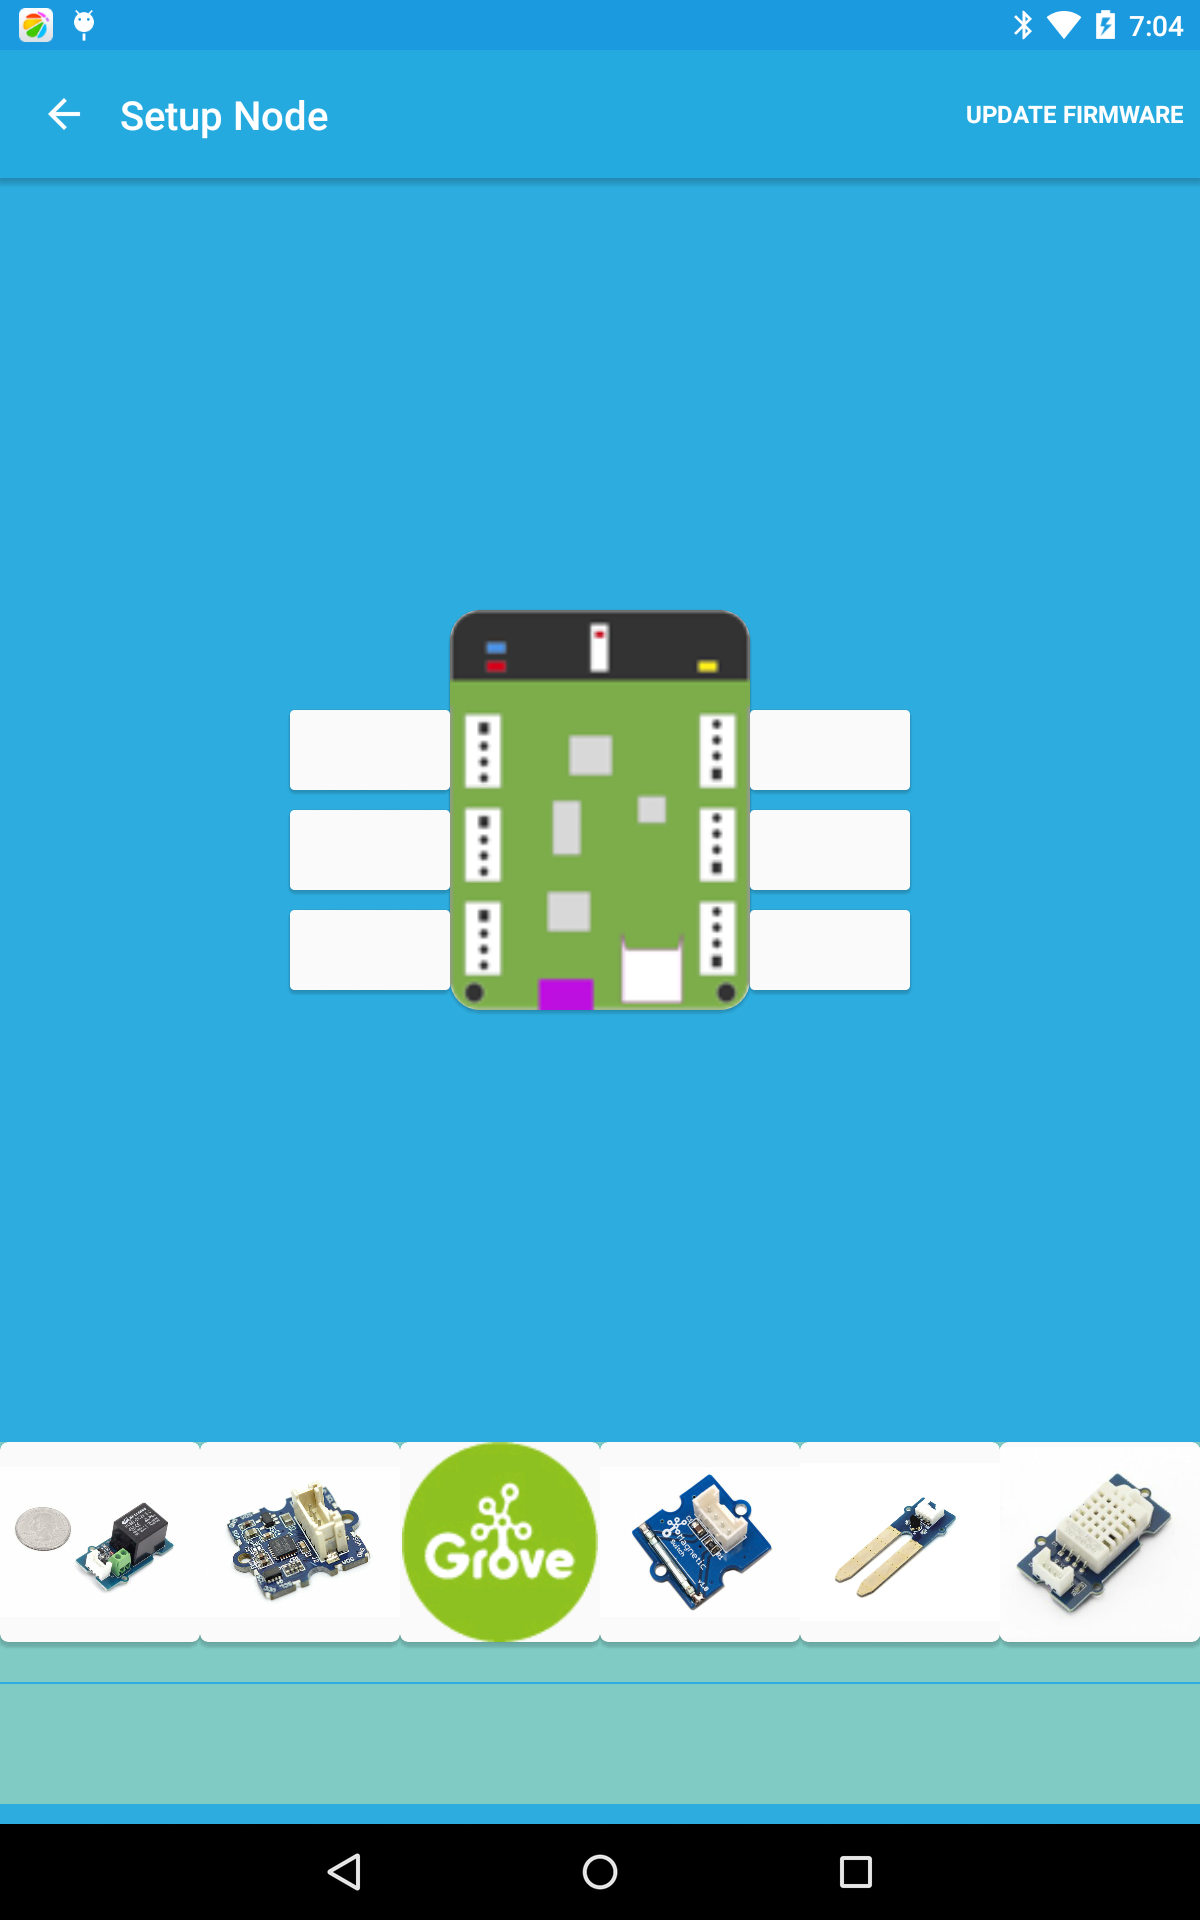
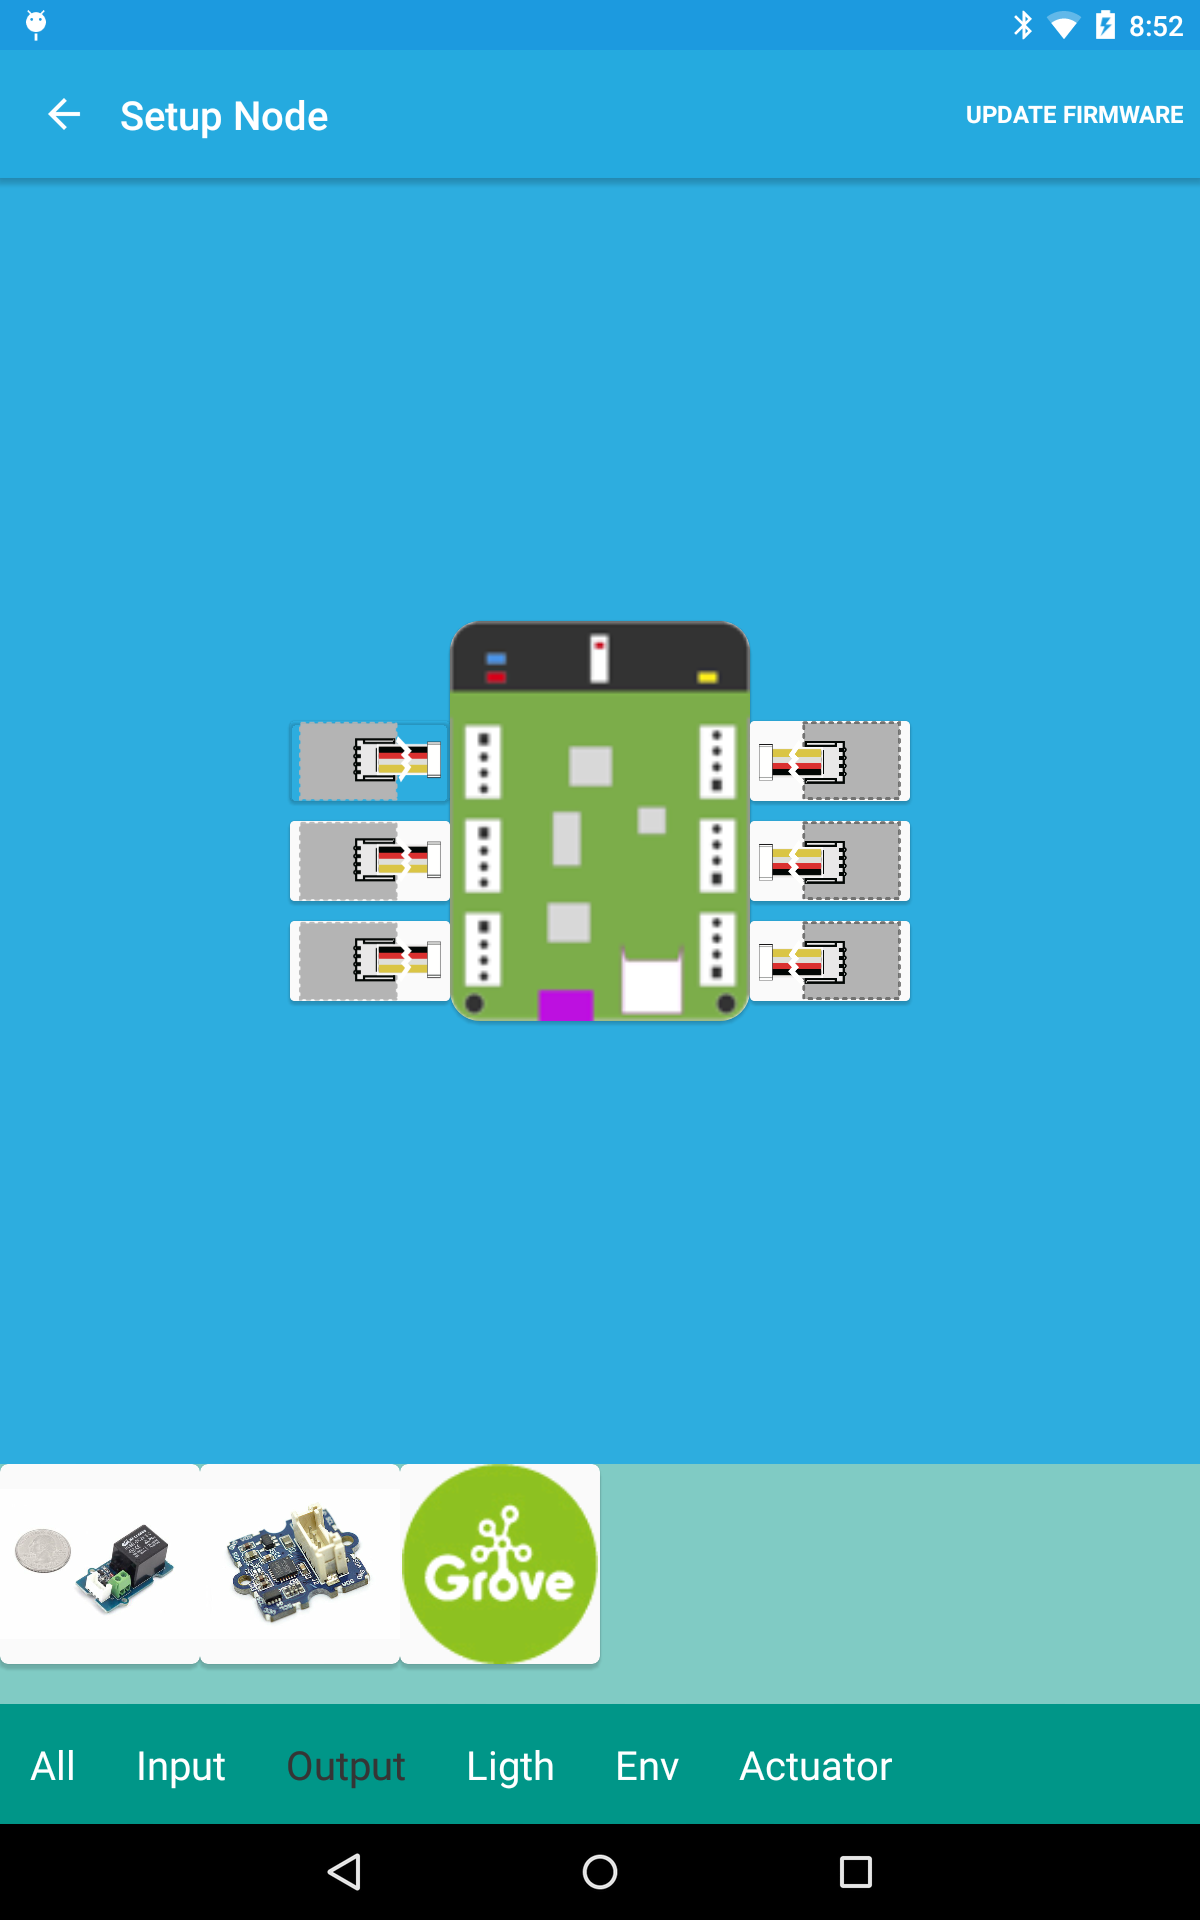
add Grove Filter

diff --git a/android/app/src/main/java/cc/seeed/iot/ui_setnode/SetupIotNodeActivity.java b/android/app/src/main/java/cc/seeed/iot/ui_setnode/SetupIotNodeActivity.java
@@ -9,6 +9,8 @@ import android.support.v7.widget.Toolbar;
 import android.util.Log;
 import android.view.Menu;
 import android.view.MenuItem;
+import android.view.View;
+import android.widget.TextView;
 import android.widget.Toast;
 
 import java.util.ArrayList;
@@ -16,6 +18,7 @@ import java.util.List;
 
 import cc.seeed.iot.MyApplication;
 import cc.seeed.iot.R;
+import cc.seeed.iot.datastruct.Constant;
 import cc.seeed.iot.datastruct.User;
 import cc.seeed.iot.webapi.IotApi;
 import cc.seeed.iot.webapi.IotService;
@@ -25,13 +28,18 @@ import retrofit.Callback;
 import retrofit.RetrofitError;
 import retrofit.client.Response;
 
-public class SetupIotNodeActivity extends AppCompatActivity {
+public class SetupIotNodeActivity extends AppCompatActivity
+        implements GroveFilterRecyclerAdapter.MainViewHolder.MyItemClickListener {
     public Toolbar toolbar;
     ArrayList<Node> nodes;
     Node node;
 
     RecyclerView mGroveListView;
-    RecyclerView.Adapter mAdapter;
+    GroveListRecyclerAdapter mGroveListAdapter;
+
+    RecyclerView mGroveTypeListView;
+    GroveFilterRecyclerAdapter mGroveTypeListAdapter;
+    private ArrayList<GroverDriver> mGroveDrivers;
 
     @Override
     protected void onCreate(Bundle savedInstanceState) {
@@ -58,6 +66,29 @@ public class SetupIotNodeActivity extends AppCompatActivity {
 
             setupAdapter();
         }
+
+
+        mGroveTypeListView = (RecyclerView) findViewById(R.id.grove_selector);
+        if (mGroveTypeListView != null) {
+            mGroveTypeListView.setHasFixedSize(true);
+            LinearLayoutManager layoutManager = new LinearLayoutManager(this);
+            layoutManager.setOrientation(LinearLayoutManager.HORIZONTAL);
+
+            mGroveTypeListView.setLayoutManager(layoutManager);
+
+            setupGroveSetectorAdapter();
+        }
+    }
+
+    private void setupGroveSetectorAdapter() {
+        mGroveTypeListAdapter = new GroveFilterRecyclerAdapter(Constant.groveTypes);
+        mGroveTypeListAdapter.setOnItemClickListener(this);
+        mGroveTypeListView.setAdapter(mGroveTypeListAdapter);
+    }
+
+    private void updateGroveListAdapter(ArrayList<GroverDriver> groverDrivers) {
+        mGroveListAdapter = new GroveListRecyclerAdapter(groverDrivers);
+        mGroveListView.setAdapter(mGroveListAdapter);
     }
 
     private void setupAdapter() {
@@ -71,12 +102,15 @@ public class SetupIotNodeActivity extends AppCompatActivity {
 //                if (groverDriver.status.equals("200")) {
 //                    nodes = (ArrayList) nodeListResponse.nodes;
 //                    ((MyApplication) MainScreenActivity.this.getApplication()).setNodes(nodes);
-//                    mAdapter = new NodeListRecyclerAdapter(nodes);
-                mAdapter = new GroveListRecyclerAdapter((ArrayList) groverDrivers);
-                mGroveListView.setAdapter(mAdapter);
+//                    mGroveListAdapter = new NodeListRecyclerAdapter(nodes);
+
+                mGroveDrivers = (ArrayList) groverDrivers;
+                mGroveListAdapter = new GroveListRecyclerAdapter((ArrayList) groverDrivers);
+                mGroveListView.setAdapter(mGroveListAdapter);
 //                } else {
 //                    Toast.makeText(MainScreenActivity.this, nodeListResponse.msg, Toast.LENGTH_LONG).show();
 //                }
+//                mGroveListAdapter.
             }
 
             @Override
@@ -108,5 +142,45 @@ public class SetupIotNodeActivity extends AppCompatActivity {
         }
 
         return super.onOptionsItemSelected(item);
+    }
+
+
+    @Override
+    public void onItemClick(View view, int postion) {
+        String groveType = Constant.groveTypes[postion];
+
+        ArrayList<GroverDriver> inputGroves = new ArrayList<GroverDriver>();
+        ArrayList<GroverDriver> outputGroves = new ArrayList<GroverDriver>();
+
+        if (mGroveDrivers == null)
+            return;
+
+        for (GroverDriver g : mGroveDrivers) {
+            if (!g.Inputs.isEmpty()) {
+                outputGroves.add(g);
+            }
+            if (!g.Outputs.isEmpty())
+                inputGroves.add(g);
+        }
+
+        if (groveType.equals("All")) {
+            updateGroveListAdapter(mGroveDrivers);
+
+        } else if (groveType.equals("Input")) {
+            updateGroveListAdapter(inputGroves);
+
+        } else if (groveType.equals("Output")) {
+            TextView v = (TextView) view.findViewById(R.id.grove_type);
+            v.setTextColor(view.getResources().getColor(R.color.window_background_dark));
+
+            updateGroveListAdapter(outputGroves);
+
+        } else if (groveType.equals("Light")) {
+
+        } else if (groveType.equals("Env")) {
+
+        } else if (groveType.equals("Actuator")) {
+
+        }
     }
 }

diff --git a/android/app/src/main/java/cc/seeed/iot/ui_setnode/GroveFilterRecyclerAdapter.java b/android/app/src/main/java/cc/seeed/iot/ui_setnode/GroveFilterRecyclerAdapter.java
@@ -1,0 +1,91 @@
+package cc.seeed.iot.ui_setnode;
+
+import android.content.Context;
+import android.support.v7.widget.RecyclerView;
+import android.view.LayoutInflater;
+import android.view.View;
+import android.view.ViewGroup;
+import android.widget.TextView;
+
+import cc.seeed.iot.R;
+
+/**
+ * Created by tenwong on 15/6/25.
+ */
+public class GroveFilterRecyclerAdapter extends RecyclerView.Adapter<GroveFilterRecyclerAdapter.MainViewHolder> {
+    private String[] grovesTypes;
+    private MainViewHolder.MyItemClickListener mItemClickListener;
+
+    private static Context context;
+
+
+    public GroveFilterRecyclerAdapter(String[] grovesTypes) {
+        this.grovesTypes = grovesTypes;
+    }
+
+    @Override
+    public MainViewHolder onCreateViewHolder(ViewGroup parent, int viewType) {
+        this.context = parent.getContext();
+        View v = LayoutInflater.from(parent.getContext())
+                .inflate(R.layout.grove_type_item, parent, false);
+        MainViewHolder vh = new MainViewHolder(v, mItemClickListener);
+        return vh;
+    }
+
+    @Override
+    public void onBindViewHolder(MainViewHolder holder, final int position) {
+        String groveType = grovesTypes[position];
+        final TextView mGroveTypeView = holder.mGroveTypeView;
+        final View mView = holder.mView;
+        mGroveTypeView.setText(groveType);
+
+//        mView.setOnClickListener(new View.OnClickListener() {
+//            @Override
+//            public void onClick(View v) {
+////                Snackbar.make(v, "Todo:set node", Snackbar.LENGTH_SHORT).show();
+//                mGroveTypeView.setTextColor(context.getResources().getColor(R.color.window_background_dark));
+//
+////                onSetGrvoesFilter(String groveType);
+//            }
+//        });
+
+    }
+
+    @Override
+    public int getItemCount() {
+        return grovesTypes.length;
+    }
+
+    public void setOnItemClickListener(MainViewHolder.MyItemClickListener listener) {
+        this.mItemClickListener = listener;
+    }
+
+    public static class MainViewHolder extends RecyclerView.ViewHolder implements View.OnClickListener {
+        private MyItemClickListener mListener;
+        TextView mGroveTypeView;
+        View mView;
+
+        public MainViewHolder(View itemView, MyItemClickListener listener) {
+            super(itemView);
+            mView = itemView;
+            mGroveTypeView = (TextView) itemView.findViewById(R.id.grove_type);
+
+            this.mListener = listener;
+            mView.setOnClickListener(this);
+        }
+
+        @Override
+        public void onClick(View v) {
+//            Toast.makeText(context, "Item click nr: " + getLayoutPosition(), Toast.LENGTH_SHORT).show();
+            if (mListener != null) {
+                mListener.onItemClick(v, getLayoutPosition());
+            }
+        }
+
+        public interface MyItemClickListener {
+            public void onItemClick(View view, int postion);
+        }
+    }
+
+
+}

diff --git a/android/app/src/main/java/cc/seeed/iot/ui_setnode/GroveListRecyclerAdapter.java b/android/app/src/main/java/cc/seeed/iot/ui_setnode/GroveListRecyclerAdapter.java
@@ -1,25 +1,18 @@
 package cc.seeed.iot.ui_setnode;
 
 import android.content.Context;
-import android.content.Intent;
-import android.support.design.widget.Snackbar;
 import android.support.v7.widget.RecyclerView;
-import android.util.TypedValue;
 import android.view.LayoutInflater;
 import android.view.View;
 import android.view.ViewGroup;
-import android.widget.ImageButton;
 import android.widget.ImageView;
-import android.widget.TextView;
 
 import com.koushikdutta.urlimageviewhelper.UrlImageViewHelper;
 
 import java.util.ArrayList;
-import java.util.List;
 
 import cc.seeed.iot.R;
 import cc.seeed.iot.webapi.model.GroverDriver;
-import cc.seeed.iot.webapi.model.Node;
 
 /**
  * Created by tenwong on 15/6/25.
@@ -27,6 +20,8 @@ import cc.seeed.iot.webapi.model.Node;
 public class GroveListRecyclerAdapter extends RecyclerView.Adapter<GroveListRecyclerAdapter.MainViewHolder> {
     private ArrayList<GroverDriver> groves;
     private Context context;
+
+    private GroveFilterRecyclerAdapter.MainViewHolder.MyItemClickListener mItemClickListener;
 
     public GroveListRecyclerAdapter(ArrayList<GroverDriver> groves) {
         this.groves = groves;
@@ -82,4 +77,9 @@ public class GroveListRecyclerAdapter extends RecyclerView.Adapter<GroveListRecy
         }
 
     }
+
+    public void setOnItemClickListener(GroveFilterRecyclerAdapter.MainViewHolder.MyItemClickListener listener){
+        this.mItemClickListener = listener;
+    }
+
 }

diff --git a/android/app/src/main/java/cc/seeed/iot/datastruct/Constant.java b/android/app/src/main/java/cc/seeed/iot/datastruct/Constant.java
@@ -1,0 +1,18 @@
+package cc.seeed.iot.datastruct;
+
+/**
+ * Created by tenwong on 15/7/13.
+ */
+public class Constant {
+
+    public final static String[] groveTypes = {
+            "All",
+            "Input",
+            "Output",
+            "Ligth",
+            "Env",
+            "Actuator",
+    };
+
+
+}
